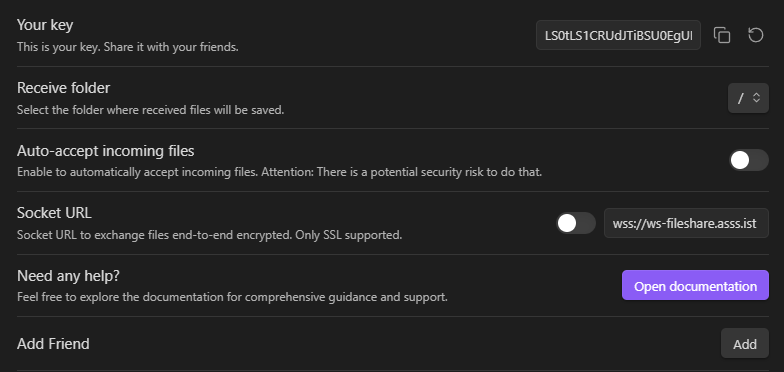
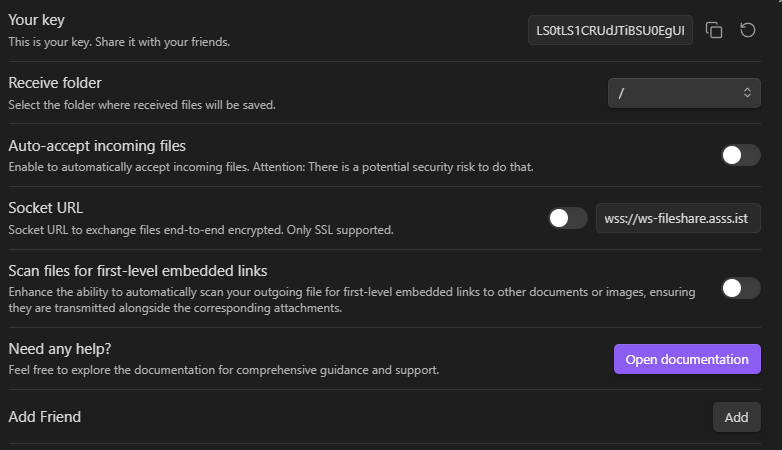
docs: added file queue and scan files setting

diff --git a/docs/getting-started.md b/docs/getting-started.md
@@ -58,3 +58,6 @@ Once you have at least one friend in your friend list (and they have added you t
    | File request declined by xyz    | Your friend has declined your file request.     |
    | File sent to xyz                | Your file has been successfully sent to your friend. |
 
+### File queue
+
+The file queue offers the ability to request multiple files for sharing with a friend, or to utilize the [Scan files for first-level embedded links](settings.md#scan-files-for-first-level-embedded-links) feature, which scans your file for first-level embedded links and automatically adds them to the queue, ensuring they are seamlessly sent to your friend alongside the original files.

diff --git a/docs/settings.md b/docs/settings.md
@@ -32,6 +32,11 @@ This option specifies the socket server used to exchange files with your friends
 
 Default: `wss://ws-fileshare.asss.ist`
 
+### Scan files for first-level embedded links
+Enhance the ability to automatically scan your outgoing file for first-level embedded links to other documents or images, ensuring they are transmitted alongside the corresponding attachments.
+
+Default: `off`
+
 ### Add Friend
 Add and manage friends with whom you want to exchange files. For more detailed instructions, visit the [start sharing](getting-started.md#add-a-friend-and-start-sharing) section.
 
